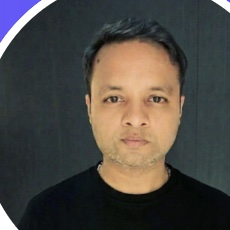
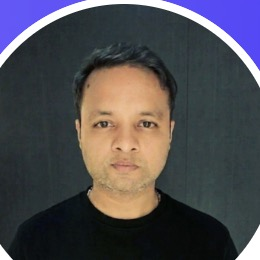
Vaishnav: recentre face in photo + update role to Head of Data Science
- Re-cropped source screenshot with face centered in the 260x260 frame
  (previous 230x230 crop was lopsided right).
- Role: Head of Pricing Science -> Head of Data Science; new longBio
  covering the Pricing Science function, 15+ years across DS/AI/analytics
  and The Shift newsletter.
- Profile page layout unchanged: photo-on-left, name/role stacked right.

diff --git a/src/data/authors.ts b/src/data/authors.ts
@@ -62,11 +62,11 @@ export const authors: Record<string, Author> = {
   'vaishnav-mishra': {
     slug: 'vaishnav-mishra',
     name: 'Vaishnav Mishra',
-    role: 'Head of Pricing Science',
-    credentials: '15+ years in data science, AI and advanced analytics; leads pricing science at The Resale Value.',
-    bio: "Vaishnav Mishra is Head of Pricing Science at The Resale Value. He brings more than 15 years in data science, AI and advanced analytics to the models and methods behind the site's resale-value analysis. He writes about used-car pricing, depreciation curves, model updates and the assumptions that can move a valuation.",
-    longBio: "Vaishnav Mishra is Head of Pricing Science at The Resale Value, where he leads the work that connects pricing models to plain-English resale guidance. His remit includes calibrating depreciation curves, running monthly model-retraining cycles and keeping the site's price-adjustment methodology current when the market moves. He brings more than 15 years of experience in data science, AI and advanced analytics, with a background spanning growth, fintech, telecom, finance, pharma and energy.\n\nAt The Resale Value, Vaishnav focuses on how a vehicle's age, ownership cycle and market signals turn into a price estimate. He writes about used-car pricing, depreciation, valuation models, methodology changes and the assumptions readers should question before using any resale-value number. His public work includes The Shift: Data, AI & Strategy, a biweekly LinkedIn newsletter for a data and AI audience. His focus is to make the reasoning visible: what changed, why it changed and what the update means for a buyer or seller, rather than treating the output as an unexplained score.",
-    expertise: ['used-car pricing', 'depreciation curves', 'vehicle valuation models', 'pricing methodology', 'automotive data science'],
+    role: 'Head of Data Science',
+    credentials: '15+ years across data science, AI and advanced analytics; leads the Pricing Science function at The Resale Value.',
+    bio: "Vaishnav Mishra is Head of Data Science at The Resale Value, where he leads the Pricing Science function behind the site's vehicle valuation platform. He brings 15+ years across data science, AI and advanced analytics, and writes about used-car pricing, depreciation, and the data-driven factors that influence resale value.",
+    longBio: "Vaishnav Mishra is the Head of Data Science at The Resale Value, where he leads the company's Pricing Science function and is responsible for the intelligence behind its vehicle valuation platform. He oversees the development of pricing models, depreciation frameworks, market-signal integration, and AI-driven methodologies that keep resale estimates accurate, transparent, and responsive to changing market conditions. With more than 15 years of experience across data science, artificial intelligence, and advanced analytics, Vaishnav has built and scaled decision intelligence solutions across fintech, telecom, finance, pharmaceuticals, energy, and high-growth technology businesses.\n\nAt The Resale Value, Vaishnav focuses on making vehicle pricing both scientifically rigorous and easy to understand. He writes about used-car pricing, depreciation, valuation methodologies, and the data-driven factors that influence resale value, helping buyers and sellers understand not just what a vehicle is worth, but why. He is also the author of The Shift: Data, AI & Strategy, a LinkedIn newsletter exploring the intersection of data science, AI, and business strategy, where he advocates for transparent, explainable, and evidence-based decision-making.",
+    expertise: ['used-car pricing', 'depreciation frameworks', 'vehicle valuation models', 'pricing methodology', 'AI & advanced analytics'],
     linkedin: 'https://www.linkedin.com/in/vaishnavmishra/',
     photo: '/authors/vaishnav-mishra.jpg',
     isPlaceholder: false,
